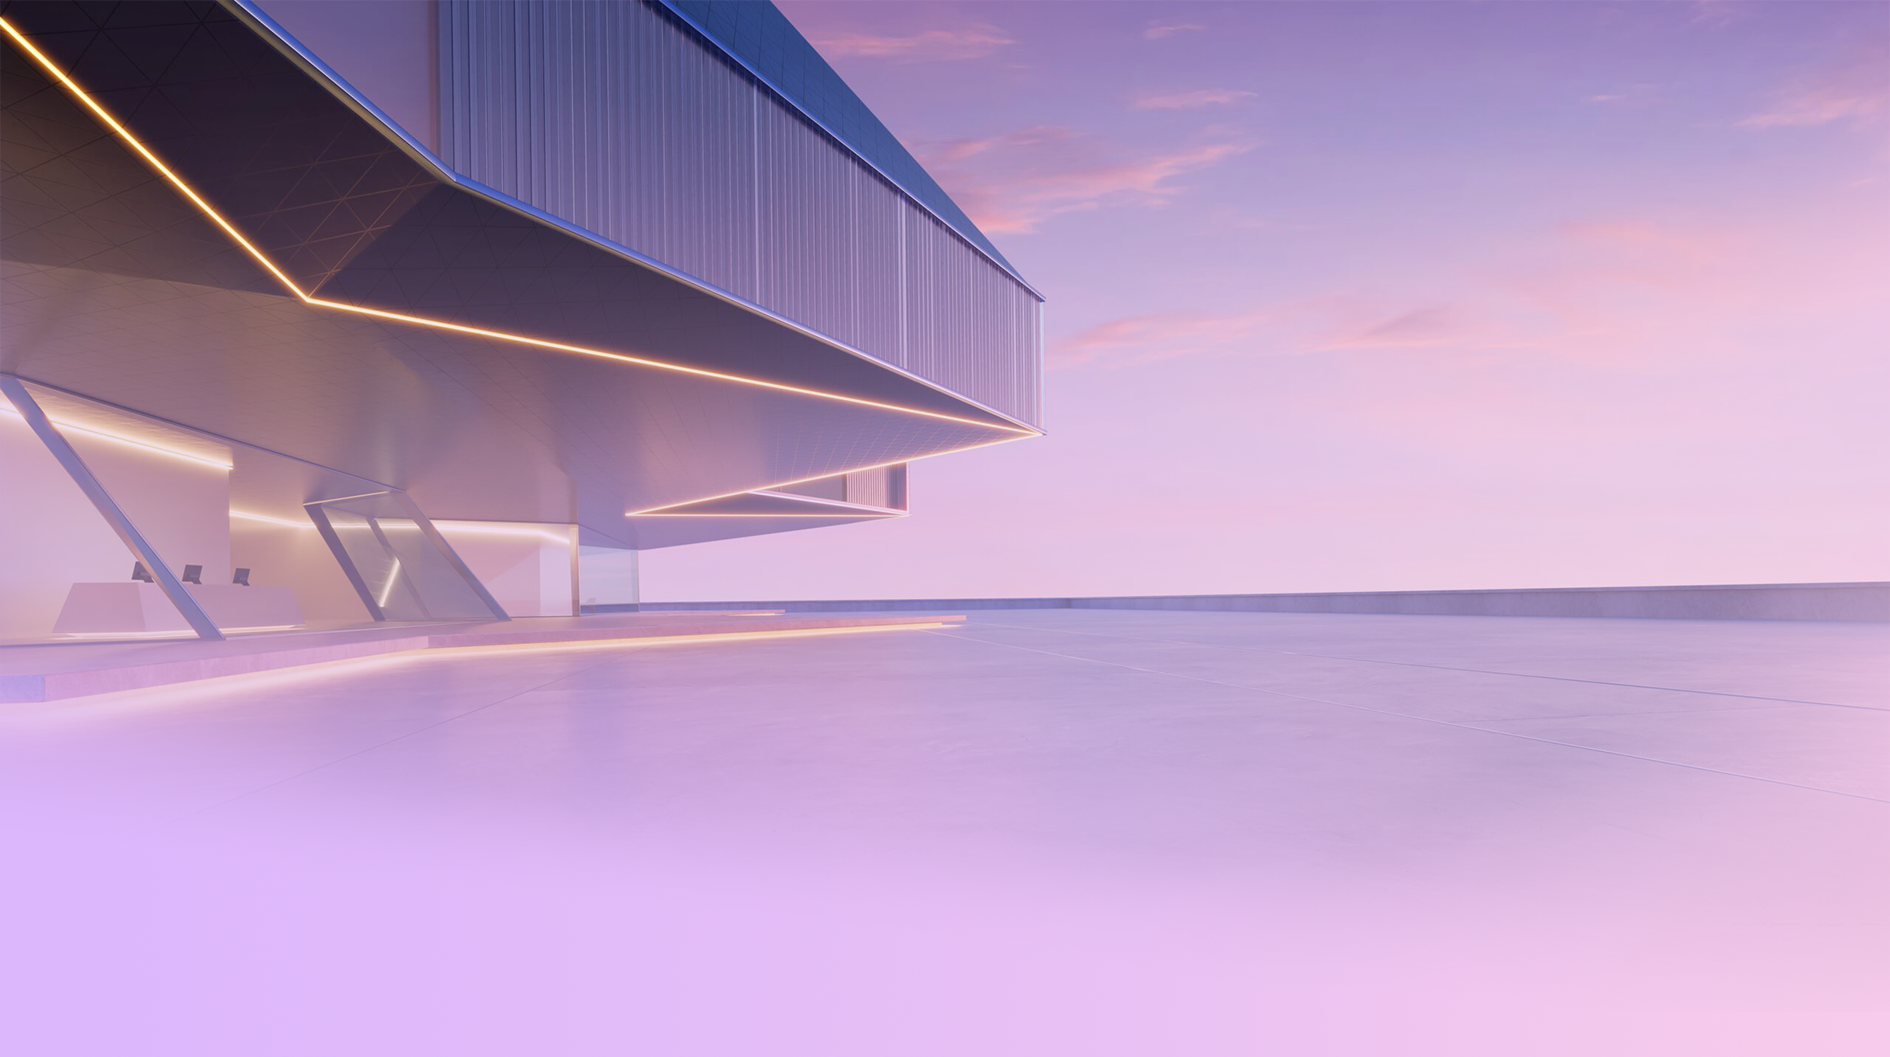
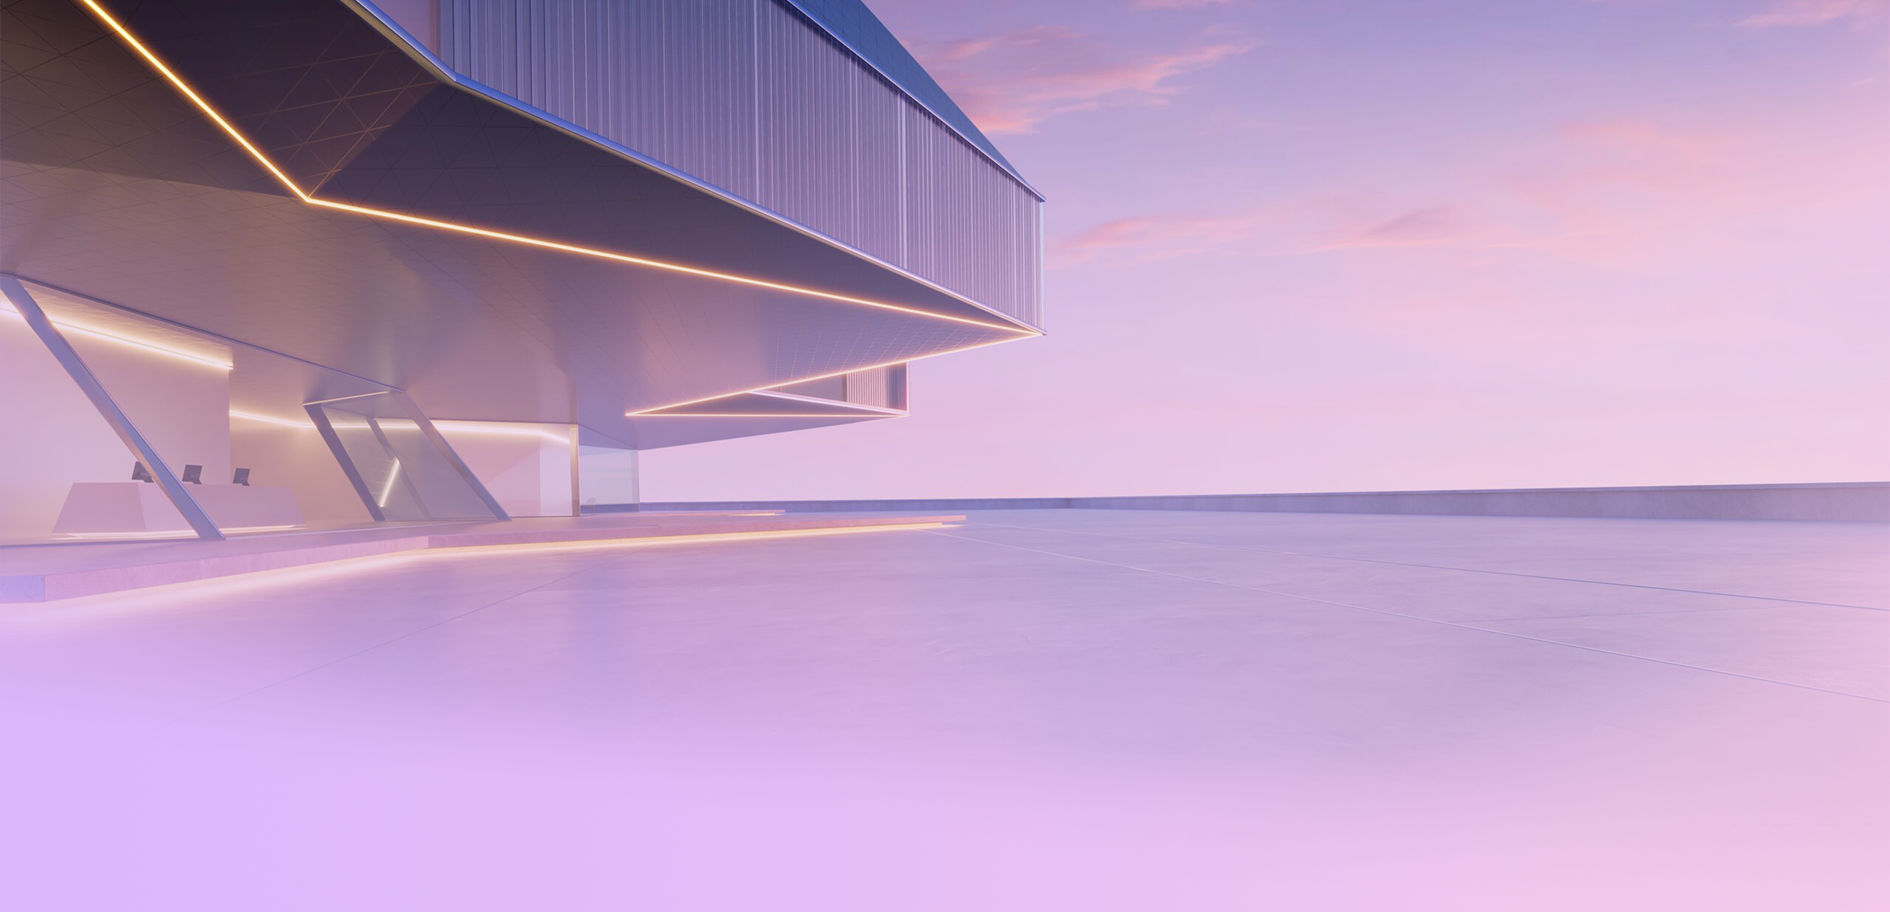
gradeint effect on photo

diff --git a/src/Pages/ProfilePage/ProfileTab.jsx b/src/Pages/ProfilePage/ProfileTab.jsx
@@ -6,7 +6,7 @@ const Tabs = ({ tabs }) => {
 
   return (
     <div className="w-full">
-      <div className="aboutMain font-['Playfair-Display'] text-white">
+      <div className="contactMain font-['Playfair-Display'] text-white">
         <NavBar />
         <div className="h-[49vh] flex items-center justify-center">
           <p className="uppercase text-white font-bold vsm:text-2xl md:text-5xl mt-[12px]">
@@ -18,11 +18,10 @@ const Tabs = ({ tabs }) => {
             {tabs.map((tab, index) => (
               <button
                 key={index}
-                className={`py-2 vsm:px-2 lg:px-4 vsm:text-md sm:text-xl focus:outline-none ${
-                  activeTab === index
-                    ? "border-b-2 border-[#6e30a7] text-[#6e30a7]"
-                    : ""
-                }`}
+                className={`py-2 vsm:px-2 lg:px-4 vsm:text-md sm:text-xl focus:outline-none ${activeTab === index
+                  ? "border-b-2 border-[#6e30a7] text-[#6e30a7]"
+                  : ""
+                  }`}
                 onClick={() => setActiveTab(index)}
               >
                 {tab.title}

diff --git a/src/Pages/AboutUsPage/AboutUs.jsx b/src/Pages/AboutUsPage/AboutUs.jsx
@@ -8,7 +8,7 @@ import { Card, CardHeader, CardBody } from "@material-tailwind/react";
 
 function AboutUs() {
   return (
-    <div className="overflow-x-hidden bg-gradient-to-r from-purple-300 to-pink-200 lg:mb-0 ">
+    <div className="overflow-x-hidden bg-gradient-to-r from-purple-300 to-pink-200 lg:mb-0 lg:-mt-[240px] xl:-mt-[300px]">
       <div className="vsm:flex vsm:items-center justify-center vsm:flex-col md:flex  md:flex-row md:mt-2 xl:mt-8 relative">
         <div class="vsm:h-[700px] vsm:w-[280px]  vsm:mt-[30px] msm:w-[300px]   sm:w-[350px] md:w-[180px] md:h-[980px]  md:ml-[25px] md:mt-[50px] lg:ml-[60px] lg:mt-[50px] lg:w-[280px] lg:h-[1000px] xl:ml-[60px] xl:mt-[50px] xl:w-[280px] xl:h-[840px]  bg-gradient-to-r from-[#6e30a7] to-purple-300 backdrop-blur-xl bottom-0 flex flex-col  items-center rounded-lg font-['Playfair-Display'] rounded-t-full">
           <div

diff --git a/src/Pages/AboutUsPage/AboutUsPage.jsx b/src/Pages/AboutUsPage/AboutUsPage.jsx
@@ -9,8 +9,8 @@ function AboutUsPage() {
     <div className="">
       <div className="aboutMain text-white">
         <Navbar />
-        <div className="h-[24vh] flex items-center justify-center">
-          <p className="uppercase text-white  vsm:text-4xl font-['Playfair-Display'] md:text-4xl lg:text-5xl mt-[12px]">
+        <div className="h-[55vh] flex items-center justify-center">
+          <p className="uppercase text-white  vsm:text-4xl font-['Playfair-Display'] md:text-4xl lg:text-5xl mt-[-151px]">
             ABOUT US
           </p>
         </div>

diff --git a/src/styles/CategoryPage/categoryPage.css b/src/styles/CategoryPage/categoryPage.css
@@ -5,8 +5,16 @@
     background-size: cover;  
     position: relative;
 }
-
 .aboutMain{
+    
+    background-image: url('../../assets/building_effect.png');
+    background-position: bottom; 
+    background-repeat: no-repeat; 
+    background-size: cover;  
+    position: relative;
+}
+
+.contactMain{
     background-image: linear-gradient(to bottom, rgba(51, 51, 51, 0), #bebebe87), url('../../assets/Building.jpg');
     background-position: center; 
     background-repeat: no-repeat; 

diff --git a/src/Pages/ContactPage/ContactPage.jsx b/src/Pages/ContactPage/ContactPage.jsx
@@ -6,7 +6,7 @@ import "../../styles/CategoryPage/categoryPage.css";
 function ContactPage() {
   return (
     <div className="">
-      <div className="aboutMain">
+      <div className="contactMain">
         <div className="">
           <Navbar />
           <div className="h-[35vh] overflow-hidden flex items-center justify-center">
